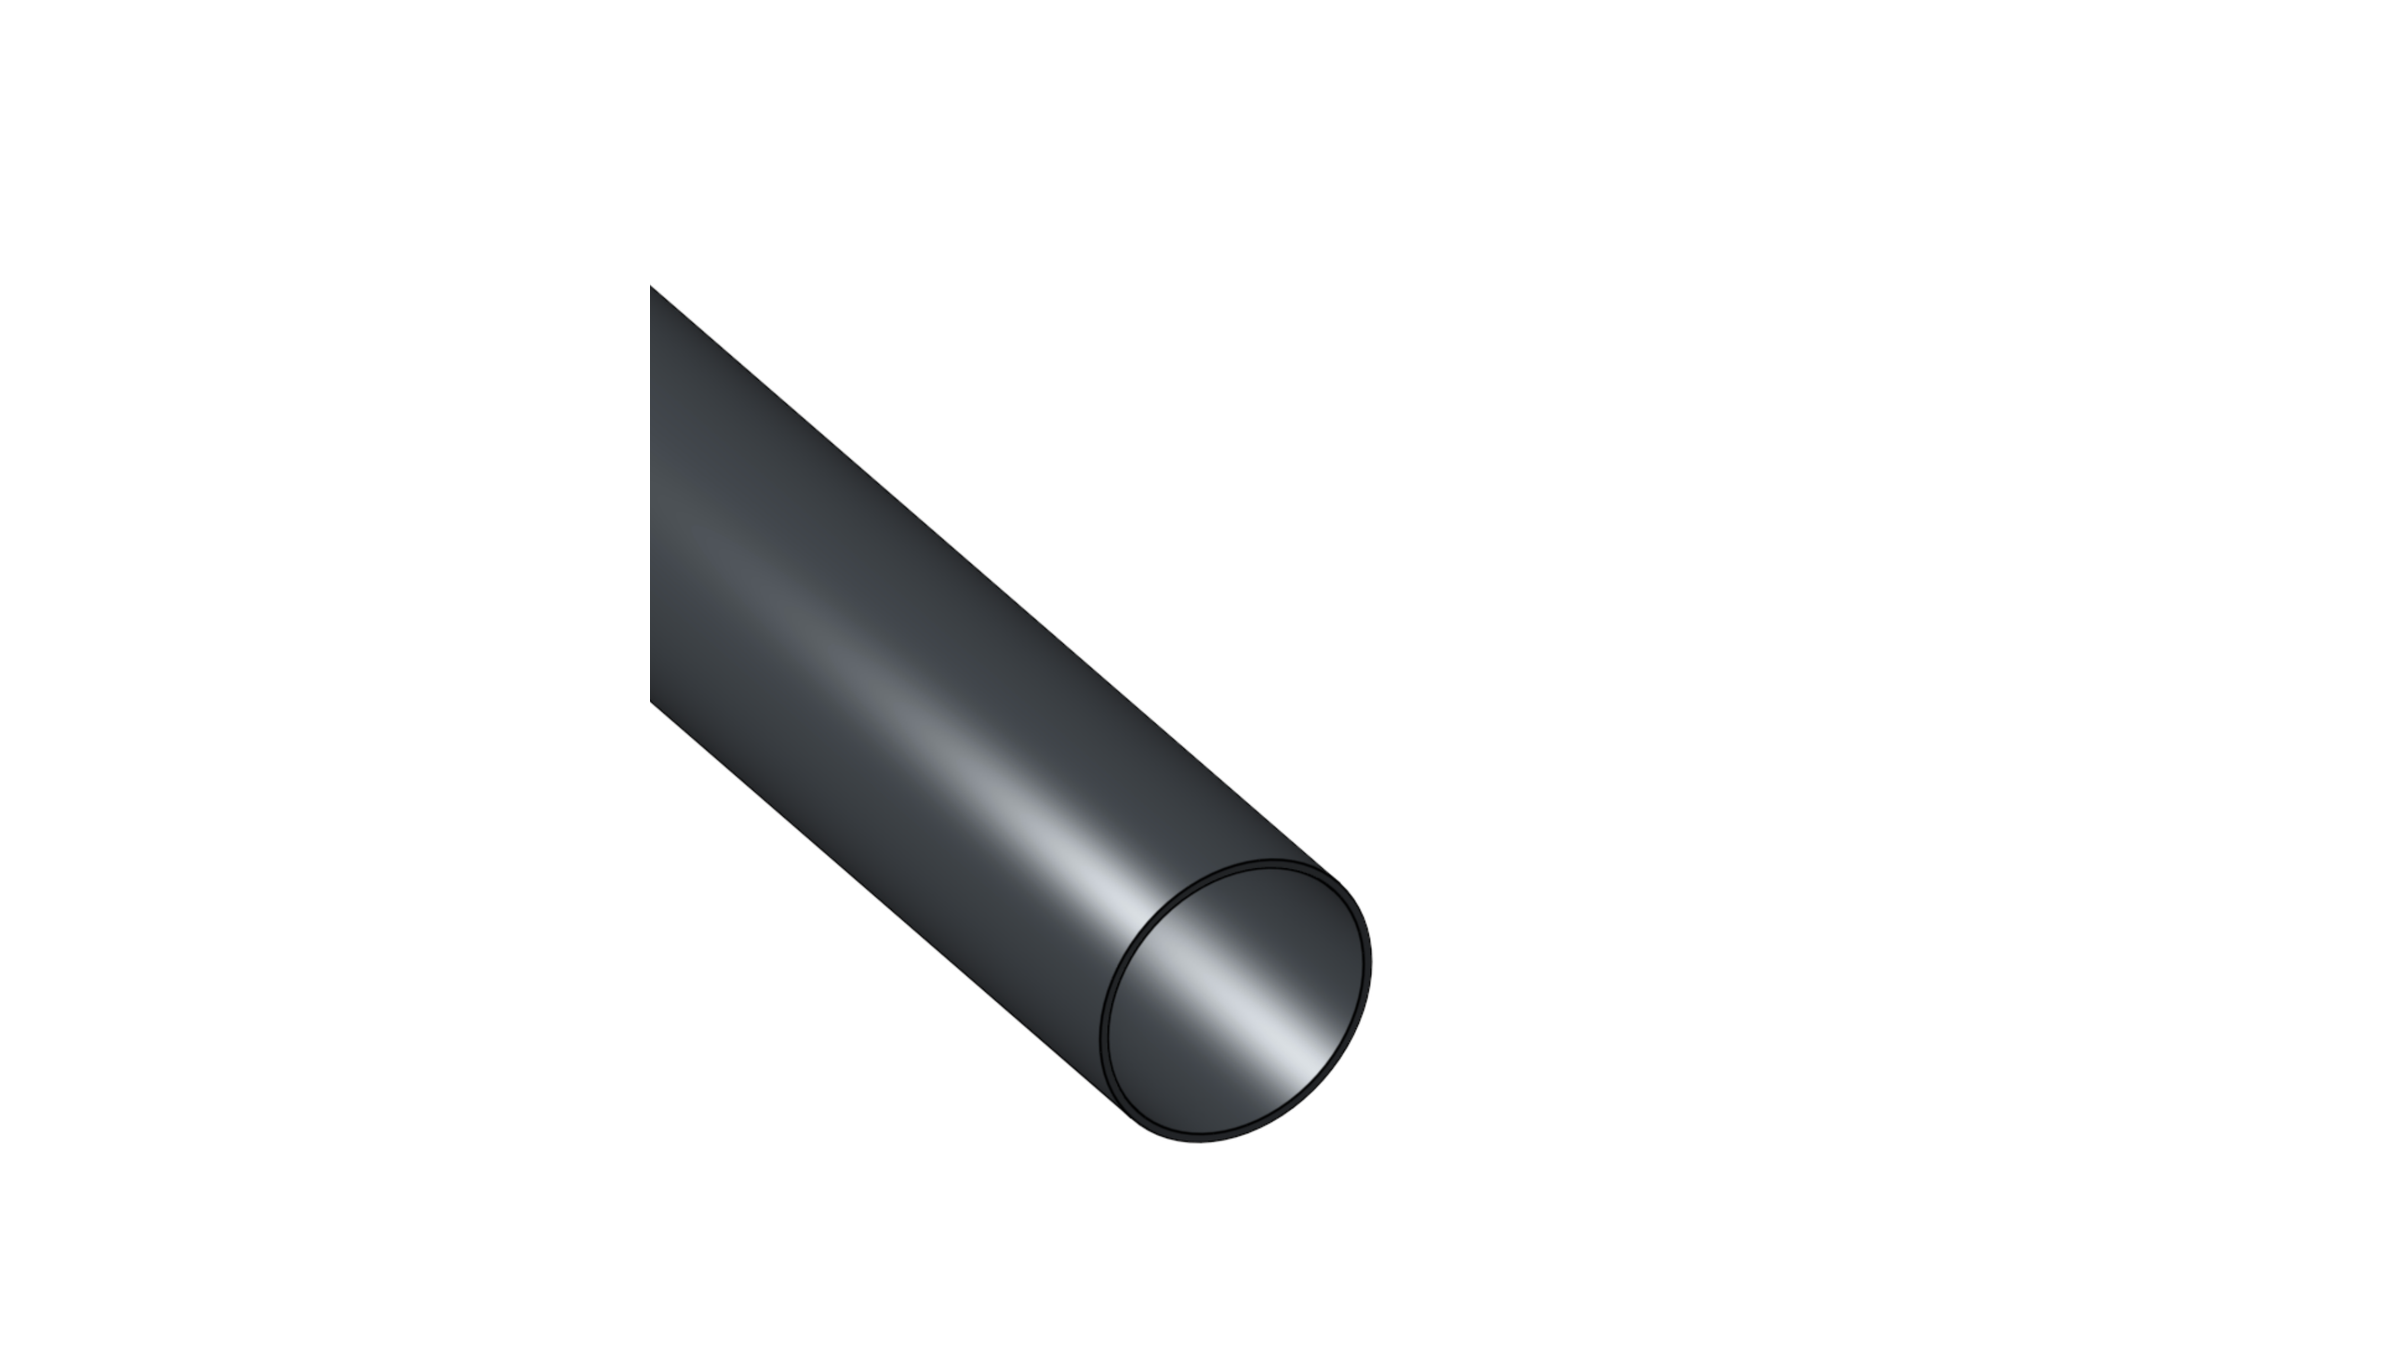
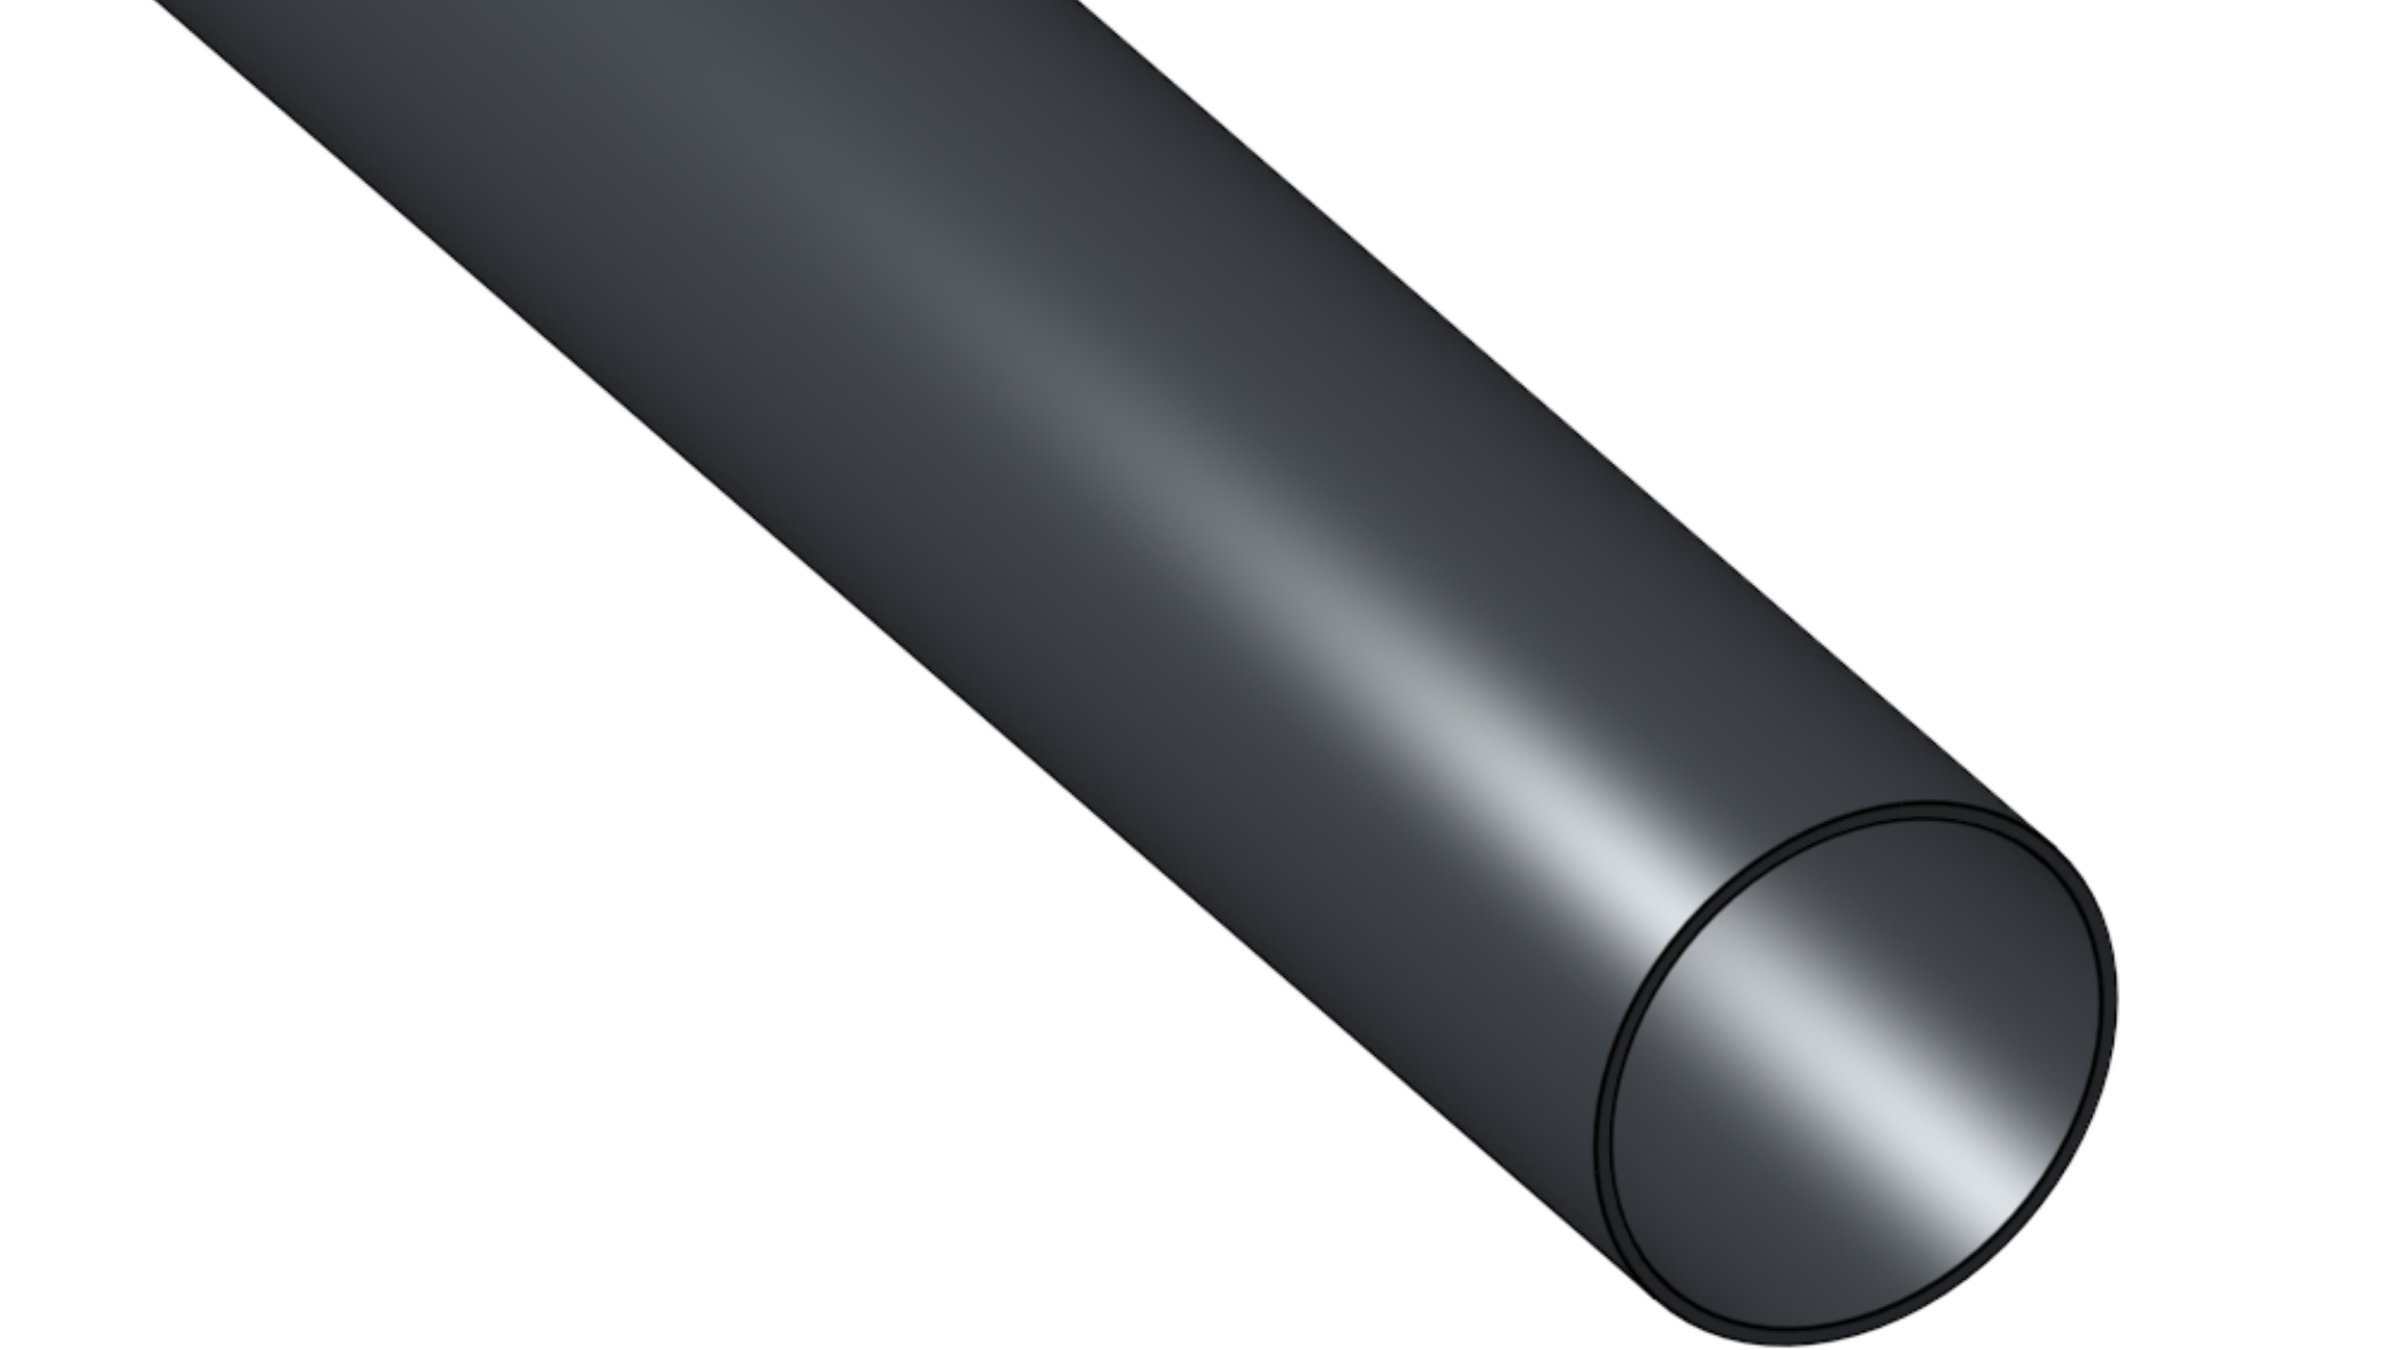
Adjust silicone tube card image positioning

diff --git a/agent-logs/HANDOFF.md b/agent-logs/HANDOFF.md
@@ -1,6 +1,6 @@
 # Handoff
 
-更新时间：2026-06-16 01:23:56 +08:00
+更新时间：2026-06-16 01:42:12 +08:00
 
 ## 当前状态
 
@@ -13,6 +13,10 @@
 
 ## 本轮完成
 
+- 按用户反馈重新调整 `public/assets/docs/wheels/silicone-tube.png`：
+  - 恢复上一版大斜向主体构图，不再使用缩小后的小段管材效果。
+  - 整体左移，并在透明画布右侧保留约 280px 安全边距，避免首页快速索引卡片右侧贴边。
+  - 保持 2400×1350 透明 PNG，无不透明白底。
 - 使用用户新提供的 SRPP/板材源图重生成 `public/assets/docs/structure/ban-cai.png`：
   - 将近白背景抠除为透明 PNG。
   - 统一放入 2400×1350 的 16:9 透明画布。
@@ -89,6 +93,11 @@
 
 ## 验证结果
 
+- `npm run lint:content` 通过。
+- `npm run check` 通过，0 errors、0 warnings、0 hints。
+- `npm run build` 通过，生成 17 个页面，Pagefind 搜索索引构建成功。
+- 使用内置浏览器打开 `http://127.0.0.1:4321/`，滚动到快速索引底部并等待懒加载图片绘制完成，确认“硅胶软管”卡片恢复大图构图，右侧留白正常，控制台无 error/warn。
+- 使用 `sharp` 检查 `silicone-tube.png`：自然尺寸 2400×1350，右侧透明边距约 280px，不含不透明白底像素。
 - `npm run lint:content` 通过。
 - `npm run check` 通过，0 errors、0 warnings、0 hints。
 - `npm run build` 通过，生成 17 个页面，Pagefind 搜索索引构建成功。
